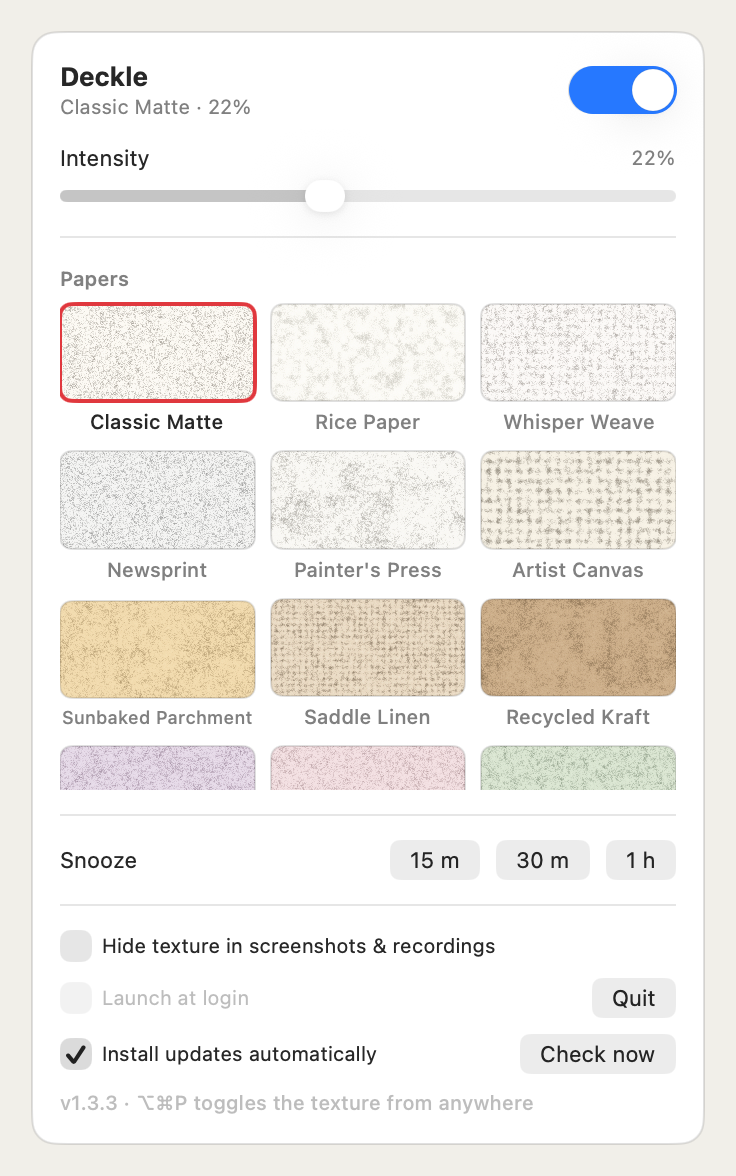
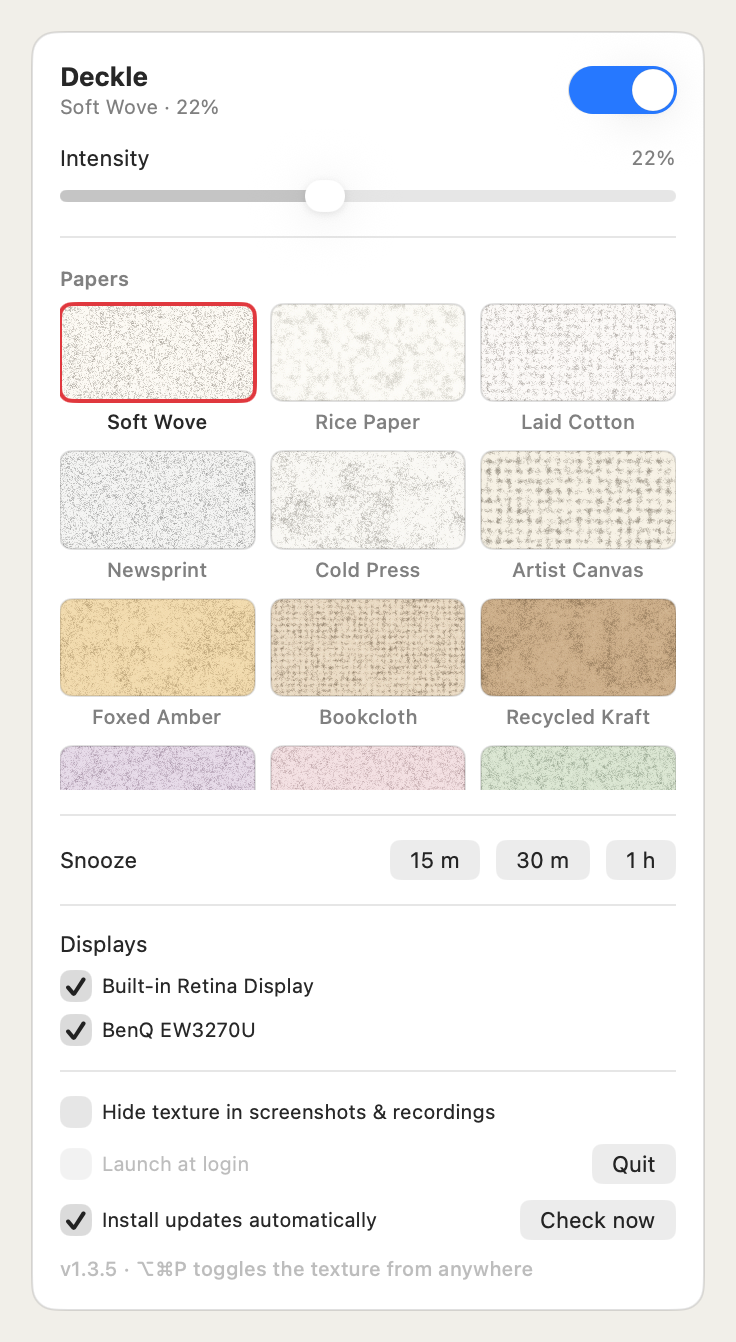
Rename 9 textures with original papermaking names
Soft Wove, Laid Cotton, Foxed Amber, Bookcloth, Cold Press, Plum Kozo,
Frost Glassine, Felt Side, Ink Stone. Display names only — preset ids
are unchanged so saved settings keep working. Refresh menu screenshot,
bump to 1.3.5.

diff --git a/Sources/Deckle/TexturePreset.swift b/Sources/Deckle/TexturePreset.swift
@@ -50,8 +50,8 @@ struct TexturePreset: Identifiable, Equatable {
         // MARK: Light papers
         TexturePreset(
             id: "classic-matte",
-            name: "Classic Matte",
-            subtitle: "Smooth, diffused finish",
+            name: "Soft Wove",
+            subtitle: "Smooth, even-milled finish",
             tint: NSColor(srgbRed: 0.98, green: 0.96, blue: 0.92, alpha: 1),
             tintAlpha: 0.35,
             darkColor: NSColor(srgbRed: 0.25, green: 0.22, blue: 0.18, alpha: 1),
@@ -78,8 +78,8 @@ struct TexturePreset: Identifiable, Equatable {
         ),
         TexturePreset(
             id: "whisper-weave",
-            name: "Whisper Weave",
-            subtitle: "Delicate fabric texture",
+            name: "Laid Cotton",
+            subtitle: "Fine ribbed cotton sheet",
             tint: NSColor(srgbRed: 0.97, green: 0.95, blue: 0.93, alpha: 1),
             tintAlpha: 0.32,
             darkColor: NSColor(srgbRed: 0.28, green: 0.25, blue: 0.22, alpha: 1),
@@ -106,8 +106,8 @@ struct TexturePreset: Identifiable, Equatable {
         ),
         TexturePreset(
             id: "painters-press",
-            name: "Painter's Press",
-            subtitle: "Cold-press surface",
+            name: "Cold Press",
+            subtitle: "Rough watercolor stock",
             tint: NSColor(srgbRed: 0.96, green: 0.95, blue: 0.92, alpha: 1),
             tintAlpha: 0.35,
             darkColor: NSColor(srgbRed: 0.30, green: 0.28, blue: 0.25, alpha: 1),
@@ -135,8 +135,8 @@ struct TexturePreset: Identifiable, Equatable {
         // MARK: Warm tones
         TexturePreset(
             id: "sunbaked-parchment",
-            name: "Sunbaked Parchment",
-            subtitle: "Amber-toned grain",
+            name: "Foxed Amber",
+            subtitle: "Age-warmed amber grain",
             tint: NSColor(srgbRed: 0.93, green: 0.82, blue: 0.60, alpha: 1),
             tintAlpha: 0.48,
             darkColor: NSColor(srgbRed: 0.36, green: 0.26, blue: 0.10, alpha: 1),
@@ -149,8 +149,8 @@ struct TexturePreset: Identifiable, Equatable {
         ),
         TexturePreset(
             id: "saddle-linen",
-            name: "Saddle Linen",
-            subtitle: "Natural weave",
+            name: "Bookcloth",
+            subtitle: "Binder's linen weave",
             tint: NSColor(srgbRed: 0.88, green: 0.80, blue: 0.68, alpha: 1),
             tintAlpha: 0.45,
             darkColor: NSColor(srgbRed: 0.30, green: 0.24, blue: 0.16, alpha: 1),
@@ -178,8 +178,8 @@ struct TexturePreset: Identifiable, Equatable {
         // MARK: Tinted
         TexturePreset(
             id: "mulberry-veil",
-            name: "Mulberry Veil",
-            subtitle: "Plum-toned, translucent",
+            name: "Plum Kozo",
+            subtitle: "Plum-washed kozo fibre",
             tint: NSColor(srgbRed: 0.85, green: 0.78, blue: 0.86, alpha: 1),
             tintAlpha: 0.42,
             darkColor: NSColor(srgbRed: 0.30, green: 0.20, blue: 0.30, alpha: 1),
@@ -234,8 +234,8 @@ struct TexturePreset: Identifiable, Equatable {
         ),
         TexturePreset(
             id: "vellum-mist",
-            name: "Vellum Mist",
-            subtitle: "Frosted effect",
+            name: "Frost Glassine",
+            subtitle: "Translucent frosted haze",
             tint: NSColor(srgbRed: 0.97, green: 0.97, blue: 0.98, alpha: 1),
             tintAlpha: 0.50,
             darkColor: NSColor(srgbRed: 0.45, green: 0.45, blue: 0.48, alpha: 1),
@@ -248,8 +248,8 @@ struct TexturePreset: Identifiable, Equatable {
         ),
         TexturePreset(
             id: "monastic-felt",
-            name: "Monastic Felt",
-            subtitle: "Soft, muted wool",
+            name: "Felt Side",
+            subtitle: "The sheet's soft felt side",
             tint: NSColor(srgbRed: 0.85, green: 0.86, blue: 0.82, alpha: 1),
             tintAlpha: 0.45,
             darkColor: NSColor(srgbRed: 0.28, green: 0.30, blue: 0.26, alpha: 1),
@@ -263,8 +263,8 @@ struct TexturePreset: Identifiable, Equatable {
         // MARK: Dark
         TexturePreset(
             id: "carbon-ledger",
-            name: "Carbon Ledger",
-            subtitle: "Deep graphite",
+            name: "Ink Stone",
+            subtitle: "Ground-ink black",
             tint: NSColor(srgbRed: 0.12, green: 0.12, blue: 0.13, alpha: 1),
             tintAlpha: 0.38,
             darkColor: NSColor(srgbRed: 0.02, green: 0.02, blue: 0.03, alpha: 1),

diff --git a/README.md b/README.md
@@ -21,9 +21,9 @@ Not a blue-light filter — a *matte texture* overlay. The grain breaks up the p
 <img src="docs/menu.png" width="300" align="right" alt="Deckle's menu: texture picker, intensity slider, snooze, and settings">
 
 - **18 paper textures** in three families:
-  - *Papers* — Classic Matte, Rice Paper, Whisper Weave, Newsprint, Painter's Press, Artist Canvas, Monastic Felt, Vellum Mist
-  - *Warm & tinted* — Sunbaked Parchment, Saddle Linen, Recycled Kraft, Mulberry Veil, Rose Quartz, Sage Press, Nordic Sky
-  - *Dark* — Carbon Ledger, Midnight Slate, Espresso
+  - *Papers* — Soft Wove, Rice Paper, Laid Cotton, Newsprint, Cold Press, Artist Canvas, Felt Side, Frost Glassine
+  - *Warm & tinted* — Foxed Amber, Bookcloth, Recycled Kraft, Plum Kozo, Rose Quartz, Sage Press, Nordic Sky
+  - *Dark* — Ink Stone, Midnight Slate, Espresso
 - **Intensity slider** (5–45%)
 - **Global hotkey** — ⌥⌘P toggles the texture from any app
 - **In-app updates** — checks GitHub Releases daily; one-click update, or turn on automatic installs